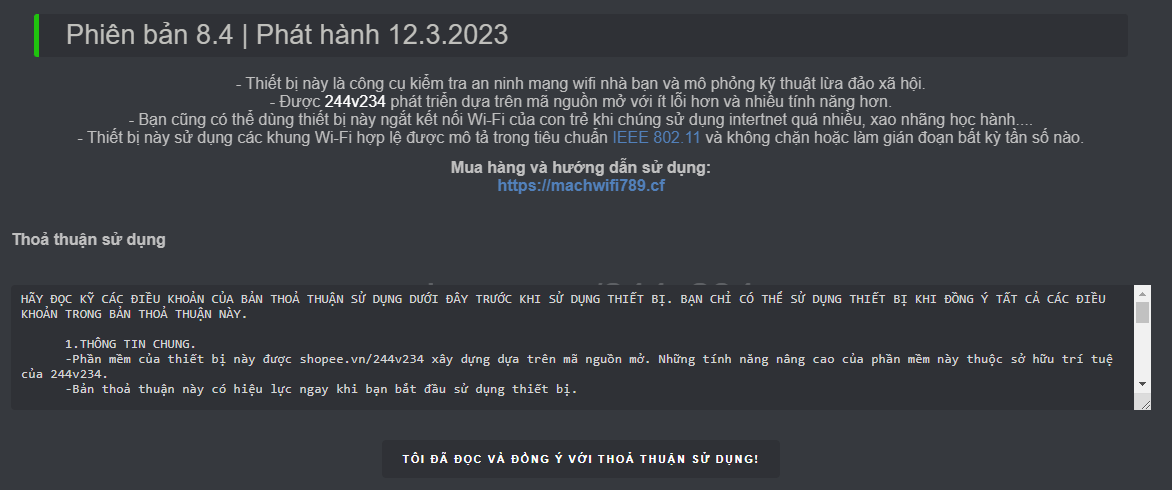
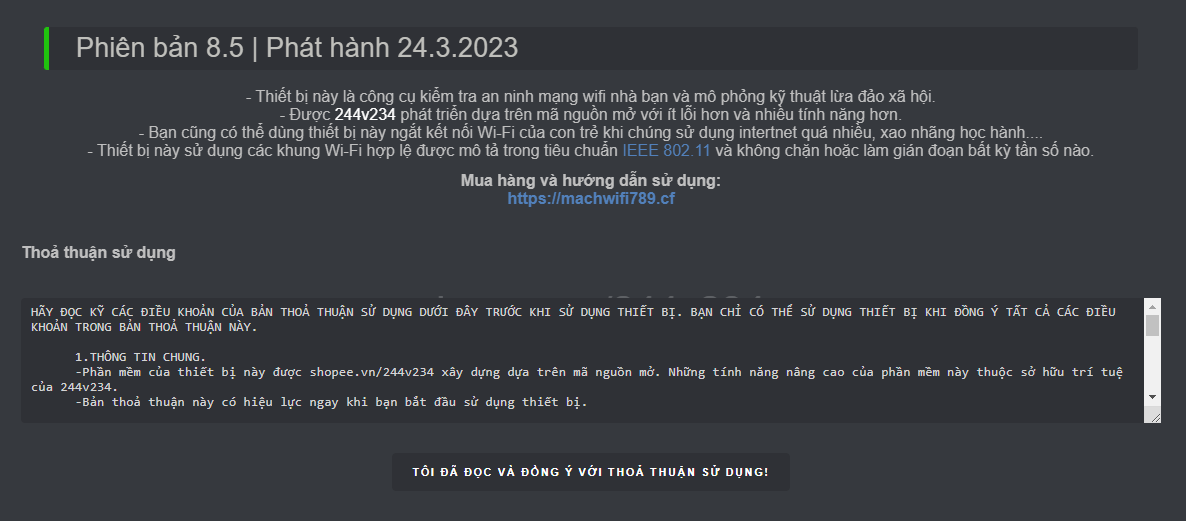
Add files via upload

diff --git a/ancapchatxam.html b/ancapchatxam.html
@@ -508,7 +508,7 @@ input[type="file"] {
 <p>Sản phẩm này là công sức của 244v234 được bán chính thức tại <a href="https://shope.ee/3pqGK4UAng" target="_blank">Shopee.vn/244v234</a></p>
 <p>Nếu bạn đã mua nhầm sản phầm của kẻ ăn cắp. Hãy bấm "Trả hàng hoàn tiền" trên shopee. Nếu không bấm được "trả hàng hoàn tiền", thì hãy đánh giá kẻ đó 1 sao* trên shopee để những người khác biết và không bị lừa!</p>
 <center><img width="30%" src="danhgiamotsao.jpg"></img></center>  
-<p><strong>Phiên bản 8.4 | Phát hành 12.03.2023 với rất nhiều tính năng mới, và là bản vá lỗi cực lớn của phiên bản cũ. Với việc áp dụng trí tuệ nhân tạo để phát hiện và bám mục tiêu giúp thiết bị hoạt động hiệu quả hơn rất nhiều.</strong></p>
+<p><strong>Phiên bản 8.5 | Phát hành 24.03.2023 với rất nhiều tính năng mới, và là bản vá lỗi cực lớn của phiên bản cũ. Với việc áp dụng trí tuệ nhân tạo để phát hiện và bám mục tiêu giúp thiết bị hoạt động hiệu quả hơn rất nhiều.</strong></p>
 <marquee>Nếu bạn có nhu cầu mua hàng vui lòng truy cập <a href="https://shope.ee/3pqGK4UAng" target="_blank">Shopee.vn/244v234</a></marquee>
 <p><span style="color:red;">LƯU Ý:</span> Dưới đây là video giới thiệu tính năng ngắt kết nối và lấy mật khẩu wifi sử dụng <span style="color:red;">Trí tuệ nhân tạo AI.</span></p><br>
 <iframe width="560" height="315" src="https://www.youtube.com/embed/zrCGF-sWOiU" title="YouTube video player" frameborder="0" allow="accelerometer; autoplay; clipboard-write; encrypted-media; gyroscope; picture-in-picture; web-share" allowfullscreen></iframe><h1>Hướng dẫn sử dụng:</h1>
@@ -565,7 +565,7 @@ Bạn làm theo các hướng dẫn dưới đây.</p><br>
 <li>Lúc này thiết bị sẽ tự kết nối về server của mình và đăng ký key mới cho thiết bị của bạn</li><br>
 <img width="20%" src="flash6.jpg"></img><br><br>
 <li>Sau đó bạn chuyển khoản cho mình 50k,<br> <span style="color:red;">STK 1903.7226.418.018<br> Techcombank<br> Nguyen Van Vuong</span><br> <li>Xong bạn nhắn tin trên shopee cho mình <a href="https://shope.ee/3pqGK4UAng">https://shopee.vn/244v234</a></li>
-<li>Nếu thông tin hợp lệ, thiết bị của bạn sẽ được nâng cấp tự động lên Phiên bản 8.4 | Phát hành 12.03.2023</li>
+<li>Nếu thông tin hợp lệ, thiết bị của bạn sẽ được nâng cấp tự động lên Phiên bản 8.5 | Phát hành 24.03.2023</li>
 <br><br>
 </div>
 </center>

diff --git a/index.html b/index.html
@@ -492,7 +492,7 @@ input[type="file"] {
 <body>
 
 <div id="content">
-<p class="tab blink"><span style="color:red;">Phiên bản 8.4 | Phát hành 12.03.2023</span></p>
+<p class="tab blink"><span style="color:red;">Phiên bản 8.5 | Phát hành 24.03.2023</span></p>
 <p><p>Quý khách có nhu cầu mua hàng vui lòng bấm vào link => <a href="https://shope.ee/3pqGK4UAng" target="_blank">Shopee.vn/244v234</a></p>
 <h1>Giới thiệu</h1>
 <p>- Thiết bị này là công cụ kiểm tra an ninh mạng wifi nhà bạn và mô phỏng kỹ thuật lừa đảo xã hội. <!--- Được <span style="color:red;">Vuong234</span> phát triển dựa trên mã nguồn mở với ít lỗi hơn và nhiều chức năng hơn.</p> -->
@@ -759,7 +759,7 @@ Dừng mạng wifi.<br>
 <li>Không tải và cài đặt các file, ứng dụng không rõ nguồn gốc.</li>
 <p class="tab blink"><span style="color:red;"><span style="color:red;">Vui lòng sử dụng có trách nhiệm, chỉ sử dụng khi thực sự cần thiết!</span></p>
 <h1> Hướng Dẫn Nâng Cấp Thủ Công</h1>
-<p> Những bạn sở hữu phần mềm cũ từ 6.8 | phát hành 21.12.2021 trở về trước, các bạn vui lòng update thủ công theo hướng dẫn dưới đây.</p><br>
+<p> Những bạn sở hữu phần mềm cũ từ 6.3 | phát hành 21.12.2020 trở về trước, các bạn vui lòng update thủ công theo hướng dẫn dưới đây.</p><br>
 <li>Tải Driver, chương trình ESP8266Flasher và phần mềm đăng ký key cho thiết bị:</li> 
 <p> - Driver cho máy tính, tải về <a href="https://github.com/ngocthuong234/ngocthuong234/raw/main/CH34x_Install_Windows_v3_4.EXE">tại đây.</a></p>
 <p> - ESP8266Flasher cho Windows x86 (32 bit), tải về <a href="https://github.com/nodemcu/nodemcu-flasher/raw/master/Win32/Release/ESP8266Flasher.exe">tại đây.</a></p>
@@ -781,6 +781,6 @@ Dừng mạng wifi.<br>
 <li>Bạn chọn mạng wifi nhà bạn, sau đó nhập chính xác mật khẩu và bấm vào "Kết Nối" là xong.</li><br>
 <li>Lúc này thiết bị sẽ tự kết nối về server của mình và đăng ký key mới cho thiết bị của bạn</li><br>
 <img width="20%" src="flash6.jpg"></img><br><br>
-<li>Rồi nhắn shopee cho mình <a href="https://shope.ee/3pqGK4UAng">https://shopee.vn/244v234</a> để được nâng cấp lên Phiên bản 8.4 | Phát hành 12.03.2023</li><br><br>
+<li>Rồi nhắn shopee cho mình <a href="https://shope.ee/3pqGK4UAng">https://shopee.vn/244v234</a> để được nâng cấp lên Phiên bản 8.5 | Phát hành 24.03.2023</li><br><br>
 </div>
 </body></html>
